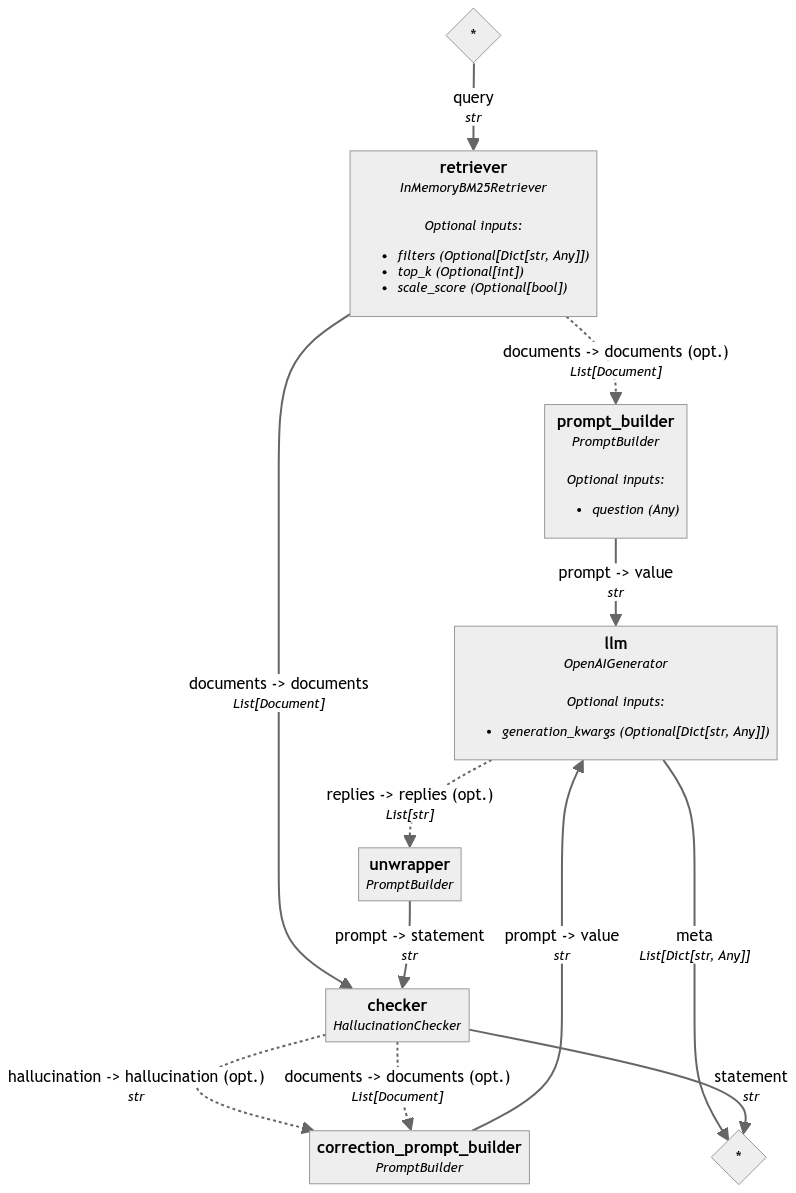
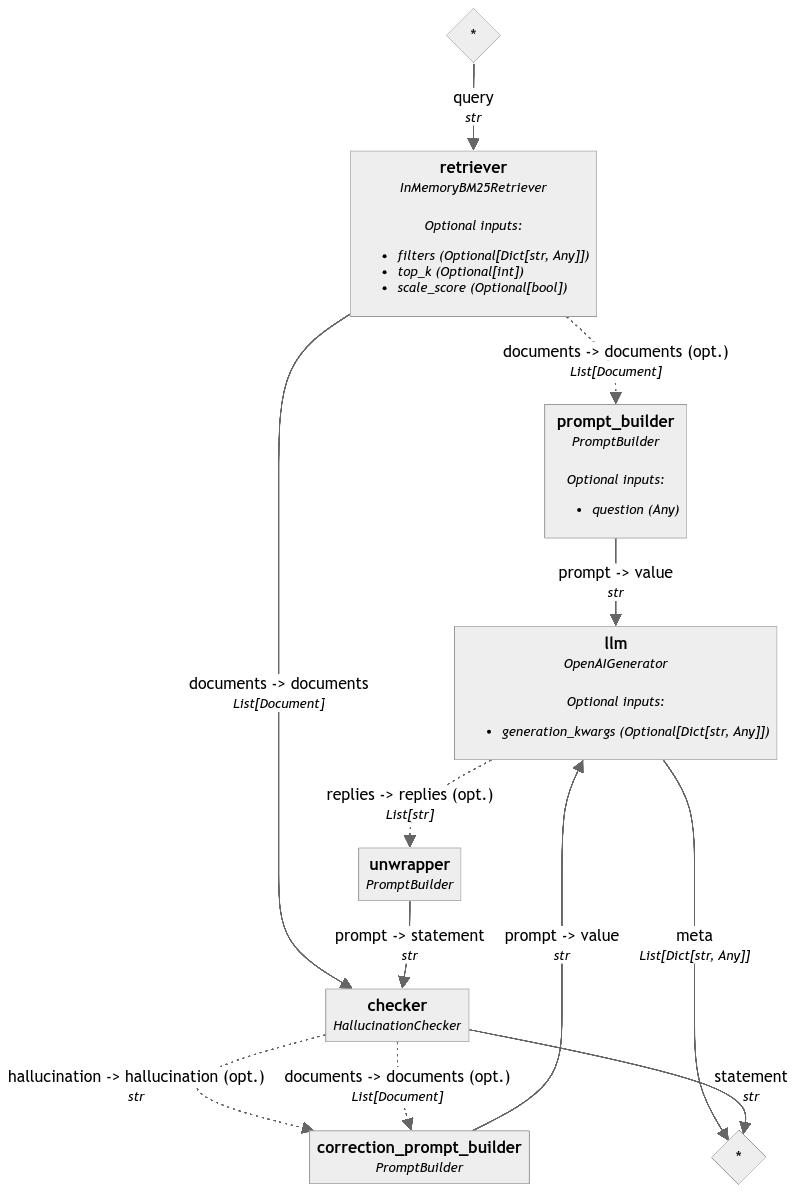
images

Changed region(s): [[0.392, 0.9925, 0.6633, 1.0]]

diff --git a/content/posts/2024-02-07-haystack-series-multiplexer.md b/content/posts/2024-02-07-haystack-series-multiplexer.md
@@ -337,7 +337,7 @@ results = pipeline.run({
 # >> ValueError: Multiplexer expects only one input, but 2 were received.
 ```
 
-![Multiplexer limitation](/posts/2024-02-07-haystack-series-multiplexer/warning_pipeline.jpeg)
+![Multiplexer limitation](/posts/2024-02-07-haystack-series-multiplexer/warning_pipeline.png)
 
 
 
